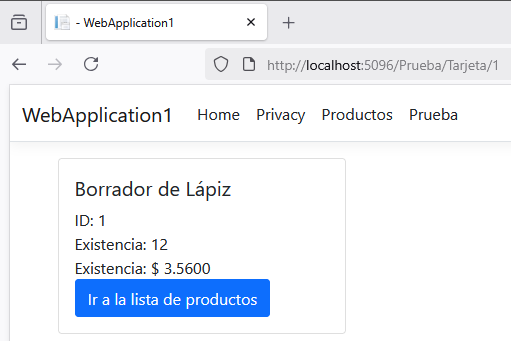
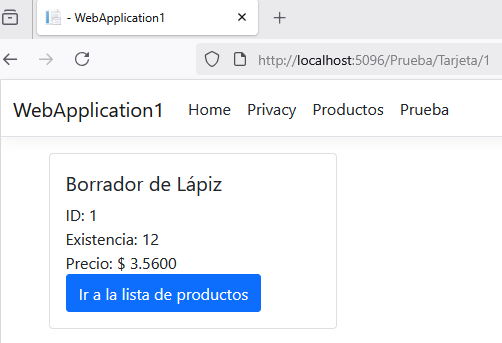
Actualización

diff --git a/05_controlador_vistas_desde_cero/index.md b/05_controlador_vistas_desde_cero/index.md
@@ -279,7 +279,7 @@ public async Task<IActionResult> Tarjeta(int? id)
             Existencia: @Model.Existencia
         </div>
         <div>
-            Existencia: $ @Model.Precio
+            Precio: $ @Model.Precio
         </div>
         <a asp-action="Index" class="btn btn-primary">Ir a la lista de productos</a>
     </div>
